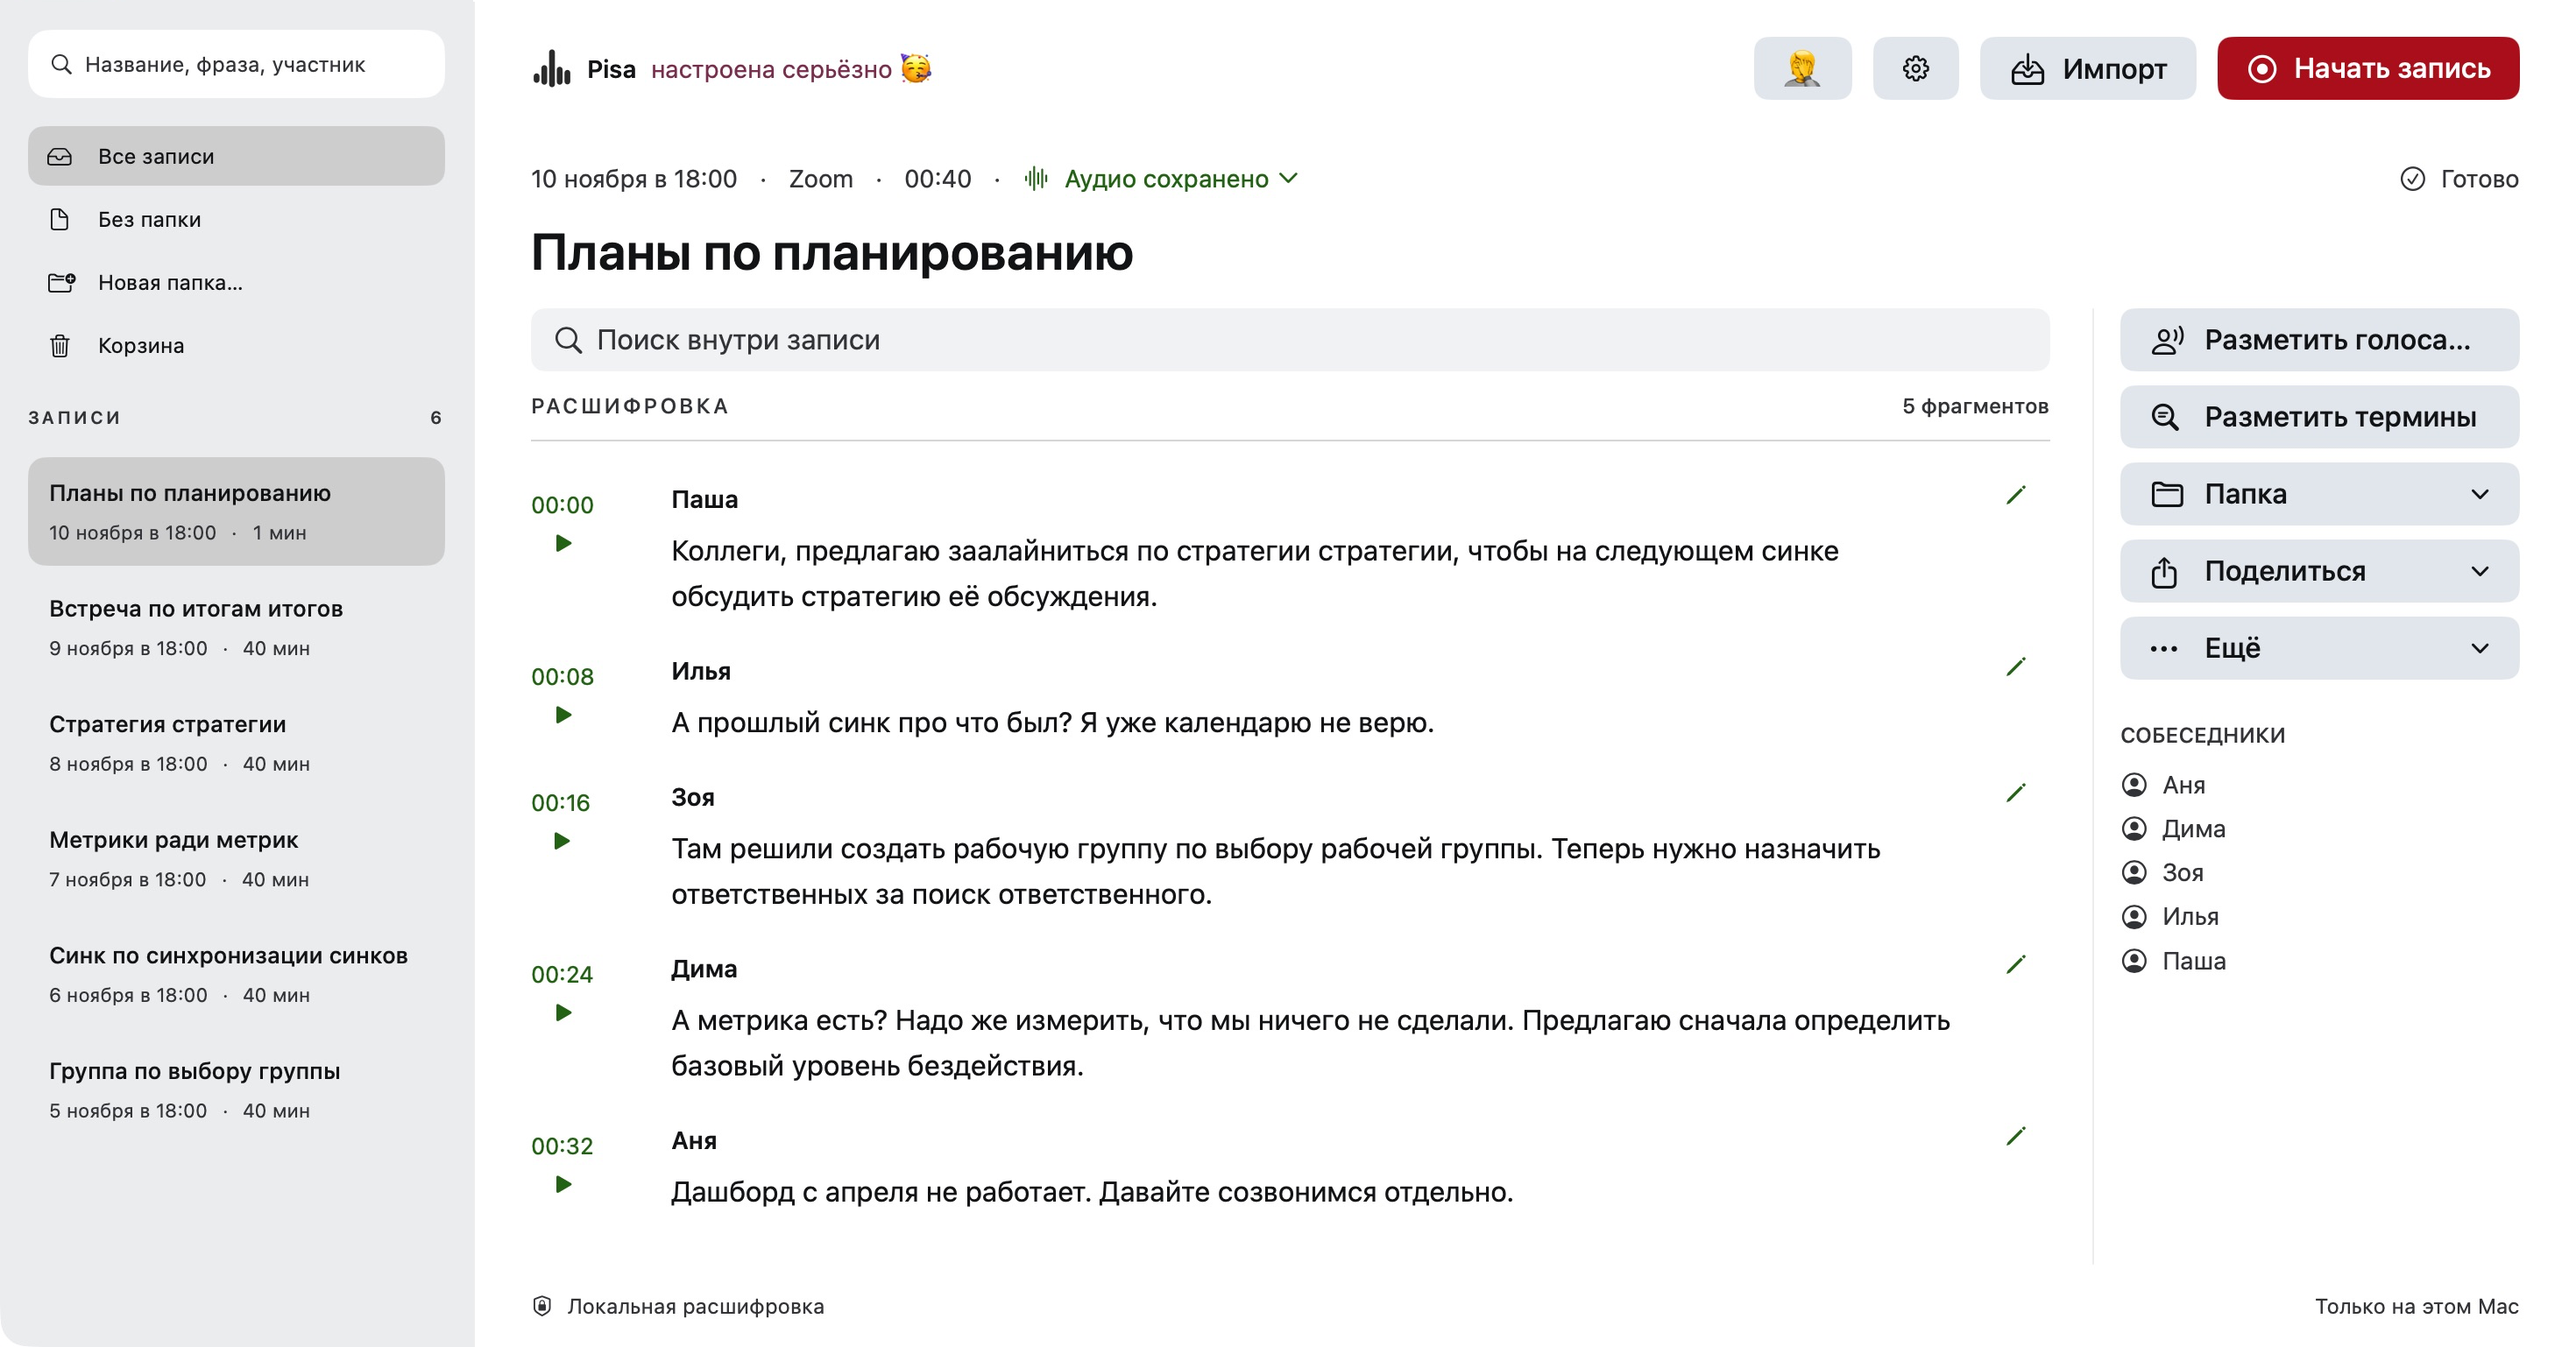
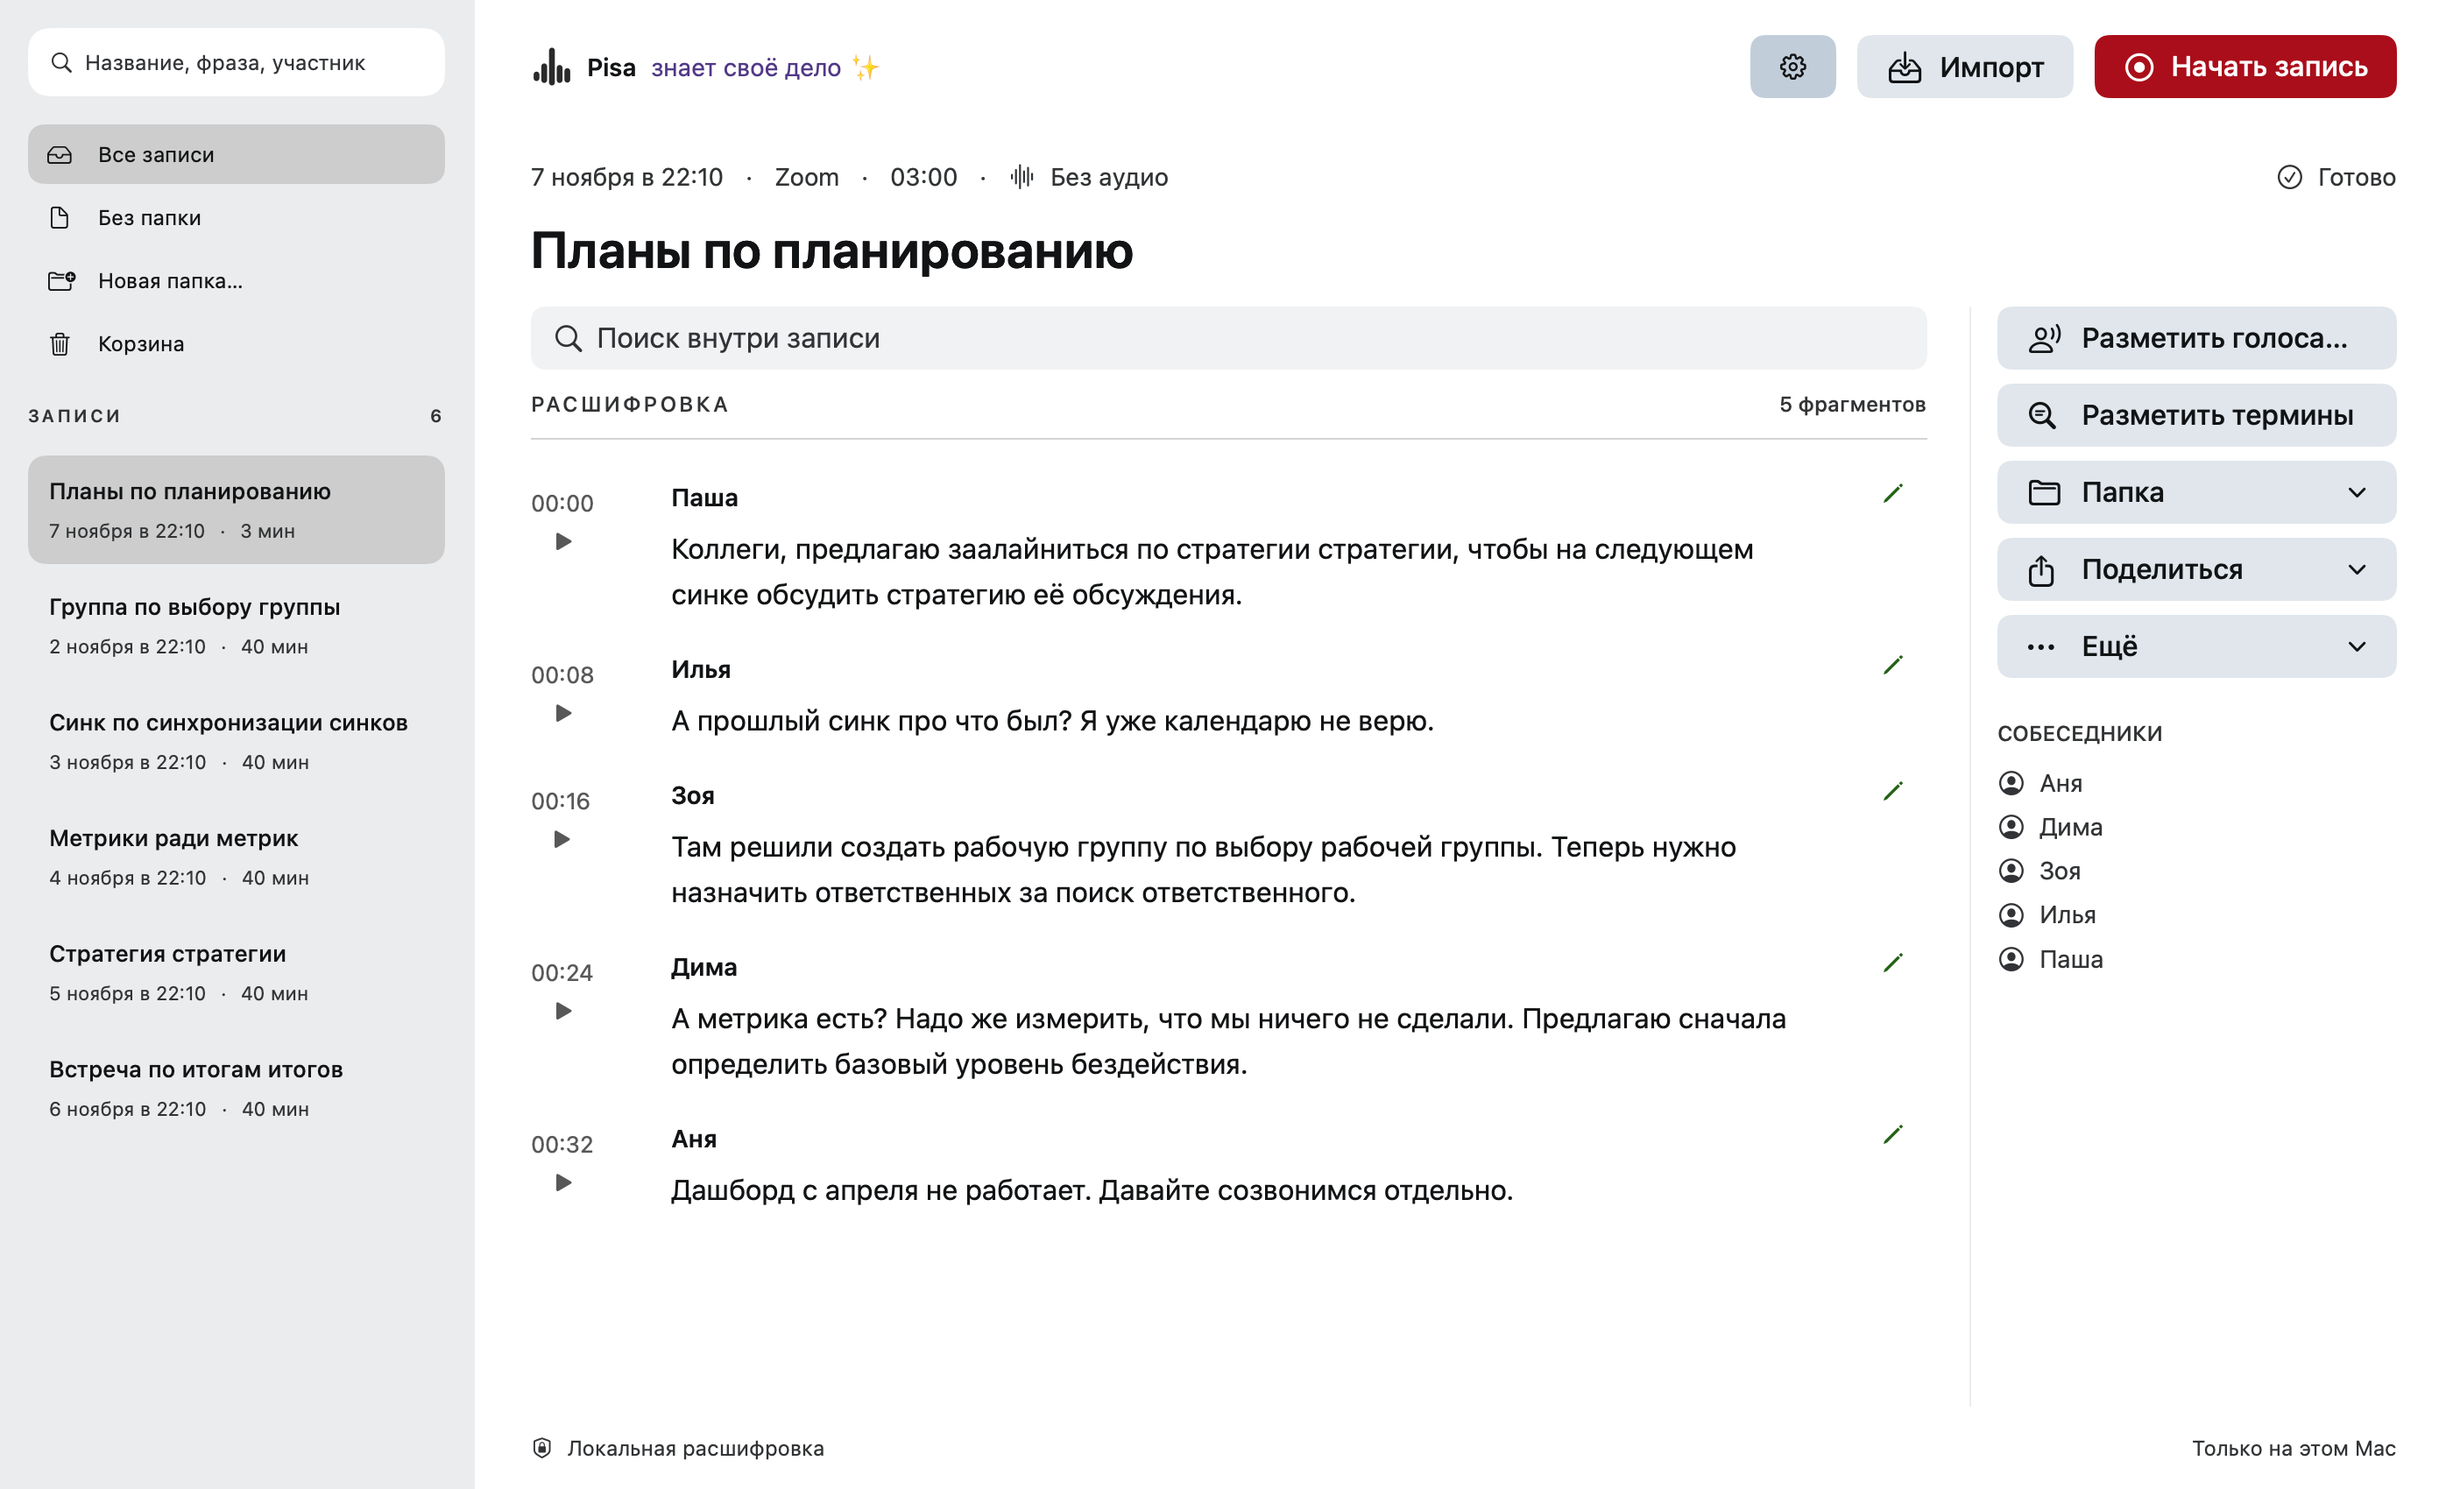
Refresh application screenshots without meeting phrases

diff --git a/Sources/Pisa/InterfaceLayoutTests.swift b/Sources/Pisa/InterfaceLayoutTests.swift
@@ -53,6 +53,55 @@ private struct InterfaceMeasurement: ViewModifier {
 
 @MainActor
 enum InterfaceLayoutTests {
+    private struct WebsiteFixture: Decodable {
+        struct Line: Decodable { let speaker: String; let text: String }
+        let title: String
+        let otherTitles: [String]
+        let dialogue: [Line]
+    }
+
+    // Render production views from a disposable library, without reading screen pixels.
+    static func renderWebsiteScreenshots(fixtureURL: URL, output: URL) throws {
+        guard NSScreen.main != nil else { throw PisaError.message("Снимкам нужен сеанс WindowServer") }
+        let app = NSApplication.shared
+        app.setActivationPolicy(.accessory)
+        app.finishLaunching()
+        let fixture = try JSONDecoder().decode(WebsiteFixture.self, from: Data(contentsOf: fixtureURL))
+        let root = FileManager.default.temporaryDirectory.appendingPathComponent("Pisa-Website-Render-" + UUID().uuidString)
+        try FileManager.default.createDirectory(at: root, withIntermediateDirectories: true)
+        defer { try? FileManager.default.removeItem(at: root) }
+        try FileManager.default.createDirectory(at: output, withIntermediateDirectories: true)
+        let state = AppState(rootURL: root)
+        state.modelSetup.phase = .ready
+        let host = LayoutHost(MainView().environmentObject(state), size: CGSize(width: 1400, height: 850), scale: 1)
+        defer { host.close() }
+        guard host.wait(for: { host.frames[.welcomeTitle]?.isEmpty == false }) else {
+            throw PisaError.message("Главный экран не отобразился")
+        }
+        try host.savePNG(to: output.appendingPathComponent("welcome.png"))
+
+        var meeting = Meeting(title: fixture.title, source: "Zoom")
+        meeting.status = .ready
+        meeting.duration = 180
+        meeting.date = Calendar.current.date(from: DateComponents(year: 2026, month: 11, day: 7, hour: 22, minute: 10)) ?? Date()
+        meeting.segments = fixture.dialogue.enumerated().map { index, line in
+            TranscriptSegment(start: Double(index * 8), end: Double(index * 8 + 3), speaker: line.speaker, text: line.text)
+        }
+        for (index, title) in fixture.otherTitles.reversed().enumerated() {
+            var other = Meeting(title: title, source: "Zoom")
+            other.status = .ready
+            other.duration = 2400
+            other.date = Calendar.current.date(byAdding: .day, value: -(index + 1), to: meeting.date) ?? meeting.date
+            state.update(other)
+        }
+        state.update(meeting)
+        state.select(meeting.id)
+        guard host.wait(for: { host.frames[.transcriptSearch]?.isEmpty == false && host.frames[.meetingTitle]?.isEmpty == false }) else {
+            throw PisaError.message("Расшифровка не отобразилась")
+        }
+        try host.savePNG(to: output.appendingPathComponent("transcript.png"))
+    }
+
     static func run() -> Int32 {
         let app = NSApplication.shared
         guard NSScreen.main != nil else {
@@ -647,6 +696,14 @@ private final class LayoutHost {
         }
         guard minX < right, minY < bottom else { return nil }
         return (CGPoint(x: CGFloat(minX) / sx, y: CGFloat(minY) / sy), min(0.5, 1 / max(sx, sy)))
+    }
+
+    func savePNG(to url: URL) throws {
+        settle()
+        guard let image = renderedHost(), let data = image.representation(using: .png, properties: [:]) else {
+            throw PisaError.message("Не удалось создать изображение интерфейса")
+        }
+        try data.write(to: url, options: .atomic)
     }
 
     // Read only pixels from the synthetic host, in memory. No desktop capture.

diff --git a/Sources/Pisa/Launcher.swift b/Sources/Pisa/Launcher.swift
@@ -96,6 +96,23 @@ enum Launcher {
             }
             dispatchMain()
         }
+        if let index = CommandLine.arguments.firstIndex(of: "--website-screenshots") {
+            MainActor.assumeIsolated {
+                guard CommandLine.arguments.count > index + 2 else {
+                    fputs("Usage: --website-screenshots FIXTURE_JSON OUTPUT_DIRECTORY\n", stderr)
+                    exit(2)
+                }
+                do {
+                    try InterfaceLayoutTests.renderWebsiteScreenshots(
+                        fixtureURL: URL(fileURLWithPath: CommandLine.arguments[index + 1]),
+                        output: URL(fileURLWithPath: CommandLine.arguments[index + 2], isDirectory: true))
+                    exit(0)
+                } catch {
+                    fputs("WEBSITE_SCREENSHOTS_FAILED: \(error)\n", stderr)
+                    exit(1)
+                }
+            }
+        }
         if CommandLine.arguments.contains("--interface-layout-self-test") {
             MainActor.assumeIsolated { exit(InterfaceLayoutTests.run()) }
         }

diff --git a/website/README.md b/website/README.md
@@ -12,4 +12,4 @@ npm run preview
 
 При сборке `scripts/build.mjs` включает содержимое `dist/` в серверный файл. `dist/server/` и `dist/.openai/` — результаты сборки, они не хранятся в Git.
 
-Скриншот `dist/assets/meeting.png` снят в изолированном окне предпросмотра Pisa с вымышленными встречами. Тексты для него сохранены в `fixtures/meeting.json`.
+Изображения интерфейса созданы в изолированном тестовом режиме Pisa с вымышленными встречами. Тексты для них сохранены в `fixtures/meeting.json`.
